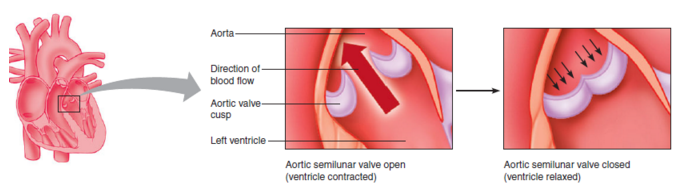
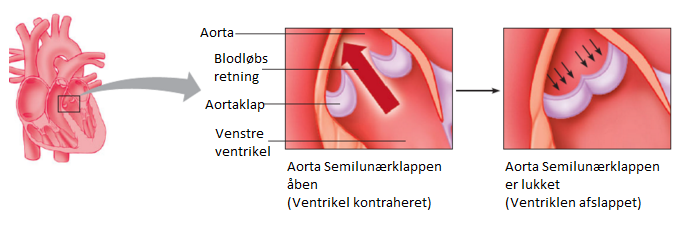
Hjertet
Rettet struktur, billeder og vejleder rettelser

diff --git a/arbejdsblad/sections/problemanalyse/hjertet.tex b/arbejdsblad/sections/problemanalyse/hjertet.tex
@@ -1,37 +1,34 @@
-\section{Hjertet}
-Introduktion til hjertet \label{Hjerte_ana_og_fys}
-Hjertet er essentielt for kroppens funktion. Dette tydeliggør sig f.eks. ved at hvis hjertet holder op med at slå, vil den pågældende person miste bevidstheden allerede efter 5-10 sekunder. 
-Hjertet fungerer som en pumpe, der pumper blod rundt i hele kroppen vha. trykforskelle. Disse trykforskelle opstår fordi hjertet er et hult muskelorgan med fire kamre; højre og venstre atrium, og højre og venstre ventrikel. Hjertet er placeret bag sternum i thoraxhulen, lateral for midtlinjen. På figur 1 er hjertet illustreret, samt de forskellige dele i thoraxhulen.
+\section{Hjertet}\label{Hjerte}
 
-Hos et voksent menneske, er hjertet omtrent lige så stort som en knyttet hånd, og vejer ca 300-350 gram for mænd, hvorimod kvinders hjerte har en vægt på omtrent 250-300 gram. Hjertevæggen består af tre lag; endokardiet, myokardiet og epikardiet. Myokardiet er det midterste lag i hjertevæggen og dette lag består af hjertemuskelceller som udgør hjertets muskulatur \cite{gronanatomi}. Hjertevæv består hovedsagligt af disse celler, og disse er også hovedansvarlige for at udføre hjertets gentagne kontraktioner, hvor hjertevæggen bevæger sig indad \cite{cindy}. 
+
+Hjertet er essentielt for kroppens funktion. Dette tydeliggør sig f.eks. ved at hvis hjertet holder op med at slå, vil den pågældende person miste bevidstheden allerede efter 5-10 sekunder. 
+
+\subsection{Overordnet anatomi \& fysiologi}\label{Hjerte_ana_fys}
+
+Hos et voksent menneske, er hjertet omtrent lige så stort som en knyttet hånd, og vejer ca 300-350 gram for mænd, hvorimod kvinders hjerte har en vægt på omtrent 250-300 gram.
+Hjertet fungerer som en pumpe, der pumper blod rundt i hele kroppen vha. trykforskelle med et interval bestemt af hjertets elektriske signal. Disse trykforskelle opstår fordi hjertet er et hult muskelorgan med fire kamre; højre og venstre atrium, og højre og venstre ventrikel. Hjertet er placeret bag sternum i thoraxhulen som ses på figur \ref{fig:hjerte_placering}. %, for midtlinjen
+
+
+Hjertet er omgivet af perikardiet, som består af kollagene fibre. Laget er med til at stabilisere hjertet og dets tilhørende blodkar i mediastinum, og desuden er denne med til at smøre hjertet.
+
+Hjertevæggen består af tre lag; endokardiet, myokardiet og epikardiet. Myokardiet er det midterste lag i hjertevæggen og dette lag består af hjertemuskelceller som udgør hjertets muskulatur \cite{gronanatomi}. Hjertevæv består hovedsagligt af disse celler, og disse er også hovedansvarlige for at udføre hjertets gentagne kontraktioner, hvor hjertevæggen bevæger sig indad \cite{cindy}. 
 Hjertemuskelceller diffenrecierer sig fra skeletmuskelceller bl.a. ved at de er forgrenede, deres størrelse er mindre, de besidder kun en enkelt cellekerne per celle og imellem cellerne er indskudsskiver der kan fører aktionpotentialerne videre \cite{martini}.
 
-\begin{figure}[H]
-\includegraphics[scale=1]{figures/thorax}
+
+\begin{figure}[H] % Example of including images
+\begin{center}
+\includegraphics[width=1\linewidth]{figures/thorax}
+\end{center}
 \caption{Illustration af hjertet i thoraxhulen. kilde: \cite{cindy}}
+\label{fig:hjerte_placering}
 \end{figure}
 
-Hjertet er omgivet af perikardiet, som består af kollagene fibre. Laget er med til at stabilisere hjertet og dets tilhørende blodkar i mediastinum, og desuden er denne med til at smøre hjertet . For at blodet skal strømme i den rigtige retning, er hjertet udstyret fire klapper; atrioventrikulærklapperne, som består af trikuspidalklappen (mellem højre atrium og  ventrikel) og mitralklappen (mellem venstre atrium og ventrikel). Semilunærklapper; er aorta- og polmunarklappen, hvis funktion er at forhindre reflux af blodet til henholdsvis venstre og højre ventrikel \cite{gronanatomi}.  
+\subsubsection{Hjertets blodforsyning}
+Ca 4 \% af hjertets minutvolumen går igennem koronararteriene som forsyner hjertet, på trods af at hjertet kun udgør ca. 0,4 \% af den samlede legemsvægt \cite{gronanatomi}. Hjertemuskelceller stiller høje krav til tilførelse af ilt og næringstoffer ifht. til de fleste andre væv i kroppen. Hjertet er nemlig ikke i stand til, på samme måde som andre væv, at udføre anaerob metabolisme, og faktisk vil hjertet bruge mere end 70 \% af den ilt der tilføres til hjertet. Under anstrengelse kan blodgennemstrømningen i hjertet stige til det 9 dobbelte ifht. når kroppen befinder sig i afslapning \cite{martini}. Koronararterierne afgår fra aorta tæt på aortaklappen. A. coronaria dextra forsyner hovedsageligt højre del af hjertet med blod, og a. coronaria sinistra forsyner hovedparten af den venstre side af hjertet. Ramus interventricularis anterior som er beliggende på den anterior del af hjertet forsyner de forreste dele af ventrikelskillevæggen og de dele der støder op til denne \cite{gronanatomi}.
 
-\begin{figure}[H]
-\includegraphics[scale=1]{figures/cusp}
-\caption{ Illustration af klappernes funktion. På illustrationen er aortaklappen afbilledet. Klappen åbner ved at blod presses mod klappen, og dette får den til at åbne. Når ventriklerne er afslappet vil blod fra aorta presses ned mod klappen, og dermed få denne til at lukke i. kilde: \cite{cindy}}
-\end{figure}
 
-\subsection{Hjertets elektriske ledningssystem}\label{Hjertets_elektriske_ledningssystem}
-Hjertets rytmiske kontraktioner som får blodet til at pumpe rundt udføres vha. et hjertets elektriske ledningssystem. Ved f.eks. iskæmi grundet koronarsygdomme vil det elektriske system blive skadet og resultere i en unormal hjerterytme eller abnormale kontraktioner af hjertet der medfører en svækkelse af hjertes pumpefunktion \cite{guyton}. Hjertemuskulaturen har den specielle evne, at den kan kontrahere sig selv uden at modtage et nervesignal \cite{gronanatomi}. Hjertet er dog også forsynet med sympatiske og parasympatiske nerver, og disse er med til at regulere hjerterytmen \cite{cindy}. 
-Hjertets ledningssystem består SA-knuden, Det his'ske bundt, grenbundterne og purkinjefibrene.
-Aktionspotentialer der får hjertet til spontant at kontrahere, og dermed bestemme hvilken frekvens hjertet slår med, initieres i sinusknuden (SA-knuden), og derfor bærer cellerne i SA-knuden også navnet "pacemaker" celler.
-Sinusknuden er beliggende i den øverste del af højre atrium og cellerne i SA-knuden vil typisk fyre 60 til 100 gange i minuttet, men dette er stærkt afhængigt af det autonome nervesystems aktivitet, samt kroppens behov for at øge hjertets
-minutvolumen \cite{ekgbook}.
-
-SA-knudens signal føres til forskellige områder af hjerter på to måder. Enten ved at hjertemuskelcellerne fører signalet videre til en anden hjertemuskelcelle via gap junctions (åbne celleforbindelser), eller fra celle til celle i hjertets specielle ledningssystem, som består af specialiserede hjertemuskelceller, og dette udføres også vha. af gap-junctions \cite{gronanatomi}. 
-Disse gap-junctions muliggør en hurtig diffussion af ioner \cite{guyton}.
-AV-knudens primære opgave er at  forsinke det elektriske signal. Ved et normalt fungerende hjerte vil atrierne kontrahere ca. en en sjettedel af sekund før ventriklerne, og dette er fordi ventriklerne skal have mulighed for at forsynes med en tilstrækkelig mængde blod, før blodet pumpes videre i aorta og lungerne \cite{guyton}.
-Det hisske bundt der fører signalet gennem anulus fibrosus som er den eneste elektriske forbindelse mellem atrierne og ventriklerne, derefter går his'ske bundt over i grenbundterne der fører signalet videre. Purkinjefibrene leverer signalet til det ventrikulære myokaridum og disse fibre har den egenskab at de kan lede de elektriske signalet hurtigt. Indenfor 75 ms ventriklerne depolariseret\cite{gronanatomi}. Hele depolariseringsprocessen strækker sig over ca. 225 ms.
-
-\subsection{Hjertecyklussen}
-Blodet i hjertet flyttes rundt i hjertet, ved at kontraktioner der opstår som følge at det elektriske signal der genereres i hjertet, skaber forskellige tryk i hjertekamrene. Atrierne kontraheres samtidig, og ligeledes kontraheres ventriklerne samtidig. Dog vil trykket i højre halvdel kun opnå ca. 20 \% af det maksimale tryk der opnåes i venstre ventrikel. Dette skyldes at den højre halvdel kun skal pumpe blod ud til lungerne, hvorimod at den venstre side har til opgave at pumpe blod rundt i hele kroppen. Generelt kan hjertets cyklus opdeles i 2 dele; systole (ventriklerne er kontraherede)  og diastole (ventriklerne er afslappede).  En mere detaljeret gennemgang er som følgende: \cite{gronanatomi}.
+\subsection{Hjertets cyklus}
+Blodet i hjertet pumpes rundt, ved at kontraktioner. Kontraktionerne skaber forskellige tryk i hjertekamrene. Atrierne kontraheres samtidig, og ligeledes kontraheres ventriklerne samtidig. Dog vil trykket i højre halvdel kun opnå ca. 20 \% af det maksimale tryk der opnåes i venstre ventrikel. Dette skyldes at den højre halvdel kun skal pumpe blod ud til lungerne, hvorimod at den venstre side har til opgave at pumpe blod rundt i hele kroppen. Generelt kan hjertets cyklus opdeles i 2 dele; systole (ventriklerne er kontraherede)  og diastole (ventriklerne er afslappede). En mere detaljeret gennemgang fra et mekanisk perspektiv er som følgende: \cite{gronanatomi}.
 
 
 \begin{itemize}
@@ -42,11 +39,66 @@ Blodet i hjertet flyttes rundt i hjertet, ved at kontraktioner der opstår som f
 \item Ventriklerne afslappes, og trykket bliver lavere end arteriernes. Dette betyder at semilunærklapperne lukkes. Når ventrikeltrykket bliver lavere end trykket i atrierne åbnes AV-klapperne og dermed starter cyklussen påny.
 \end{itemize}
 
-\begin{figure}[H]
-\includegraphics[scale=1]{figures/cyklus}
+
+\begin{figure}[H] % Example of including images
+\begin{center}
+\includegraphics[width=1\linewidth]{figures/cyklus}
+\end{center}
 \caption{Illustration af hjertets cyklus kilde: \cite{cindy}}
+\label{fig:hjerte_cyklus}
 \end{figure}
 
-\subsection{Hjertets blodforsyning}
-Ca 4 \% af hjertets minutvolumen går igennem koronararteriene som forsyner hjertet, på trods af at hjertet kun udgør ca. 0,4 \% af den samlede legemsvægt \cite{gronanatomi}. Hjertemuskelceller stiller høje krav til tilførelse af ilt og næringstoffer ifht. til de fleste andre væv i kroppen. Hjertet er nemlig ikke i stand til, på samme måde som andre væv, at udføre anaerob metabolisme, og faktisk vil hjertet bruge mere end 70 \% af den ilt der tilføres til hjertet. Under anstrengelse kan blodgennemstrømningen i hjertet stige til det 9 dobbelte ifht. når kroppen befinder sig i afslapning \cite{martini}. Koronararterierne afgår fra aorta tæt på aortaklappen. A. coronaria dextra forsyner hovedsageligt højre del af hjertet med blod, og a. coronaria sinistra forsyner hovedparten af den venstre side af hjertet. Ramus interventricularis anterior som er beliggende på den anterior del af hjertet forsyner de forreste dele af ventrikelskillevæggen og de dele der støder op til denne \cite{gronanatomi}.
+\subsubsection{Hjertets klapper}
+For at blodet skal strømme i den rigtige retning, har hjertet fire klapper; atrioventrikulærklapperne, som består af trikuspidalklappen, (mellem højre atrium og ventrikel), mitralklappen (mellem venstre atrium og ventrikel) og semilunærklapperne aorta- samt polmunarklappen. Semilunærklapperne funktion er at forhindre reflux af blodet til henholdsvis venstre og højre ventrikel som ilusteres på figur \ref{fig:hjerte_klap}.  \cite{gronanatomi}  
+
+\begin{itemize} 
+	\item Atrioventrikulærklapperne
+		\begin{itemize} 
+
+			\item Trikuspidalklappen, (mellem højre atrium og ventrikel)
+			\item Mitralklappen (mellem venstre atrium og ventrikel)
+
+		\end{itemize} 
+
+
+	\item Semilunærklapperne
+
+		\begin{itemize} 
+
+			\item Aortaklappen
+			\item Polmunarklappen
+
+		\end{itemize} 		
+\end{itemize} 
+
+
+\begin{figure}[H] % Example of including images
+\begin{center}
+\includegraphics[width=1\linewidth]{figures/cusp}
+\end{center}
+\caption{Illustration af klappernes funktion med eksempel af aorta klappen. kilde: \cite{cindy}}
+\label{fig:hjerte_klap}
+\end{figure}
+
+\subsection{Hjertets elektriske ledningssystem}\label{Hjertets_elektriske_ledningssystem}
+Hjertets rytmiske kontraktioner som får blodet til at pumpe rundt udføres vha. hjertets elektriske ledningssystem. Ved skade på det elektriske system kan det resultere i en unormal hjerterytme eller abnormale kontraktioner af hjertet der medfører en svækkelse af hjertes pumpefunktion \cite{guyton}. Hjertemuskulaturen har den specielle evne, at den kan kontrahere sig selv uden at modtage et nervesignal \cite{gronanatomi}. Hjertet er dog også forsynet med sympatiske og parasympatiske nerver, og disse er med til at regulere hjerterytmen \cite{cindy}. 
+Hjertets ledningssystem består SA-knuden, Det his'ske bundt, grenbundterne og purkinjefibrene \ref{fig:hjerte_elektriske}.
+Aktionspotentialer der får hjertet til spontant at kontrahere, og dermed bestemme hvilken frekvens hjertet slår med, initieres i sinusknuden (SA-knuden), og derfor bærer cellerne i SA-knuden også navnet "pacemaker" celler.
+Sinusknuden er beliggende i den øverste del af højre atrium og cellerne i SA-knuden vil typisk fyre 60 til 100 gange i minuttet, men dette er stærkt afhængigt af det autonome nervesystems aktivitet, samt kroppens behov for at øge hjertets
+minutvolumen \cite{ekgbook}.
+
+\begin{figure}[H] % Example of including images
+\begin{center}
+\includegraphics[width=1\linewidth]{figures/hjerte_elektrisk}
+\end{center}
+\caption{Illustration af hjertets eleketriske system. kilde: \cite{elektriske}}
+\label{fig:hjerte_elektriske}
+\end{figure}
+
+SA-knudens signal føres til forskellige områder af hjerter på to måder. Enten ved at hjertemuskelcellerne fører signalet videre til en anden hjertemuskelcelle via gap junctions (åbne celleforbindelser), eller fra celle til celle i hjertets specielle ledningssystem, som består af specialiserede hjertemuskelceller, og dette udføres også vha. af gap-junctions \cite{gronanatomi}. 
+Disse gap-junctions muliggør en hurtig diffussion af ioner \cite{guyton}.
+AV-knudens primære opgave er at  forsinke det elektriske signal. Ved et normalt fungerende hjerte vil atrierne kontrahere ca. en en sjettedel af sekund før ventriklerne, og dette er fordi ventriklerne skal have mulighed for at forsynes med en tilstrækkelig mængde blod\cite{guyton}.
+Det hisske bundt der fører signalet gennem anulus fibrosus som er den eneste elektriske forbindelse mellem atrierne og ventriklerne, derefter går his'ske bundt over i grenbundterne der fører signalet videre. Purkinjefibrene leverer signalet til det ventrikulære myokaridum og disse fibre har den egenskab at de kan lede de elektriske signalet hurtigt. Indenfor 75 ms af ventriklernes depolariseret\cite{gronanatomi}. Hele depolariseringsprocessen strækker sig ca. over 225 ms.
+
+
 
